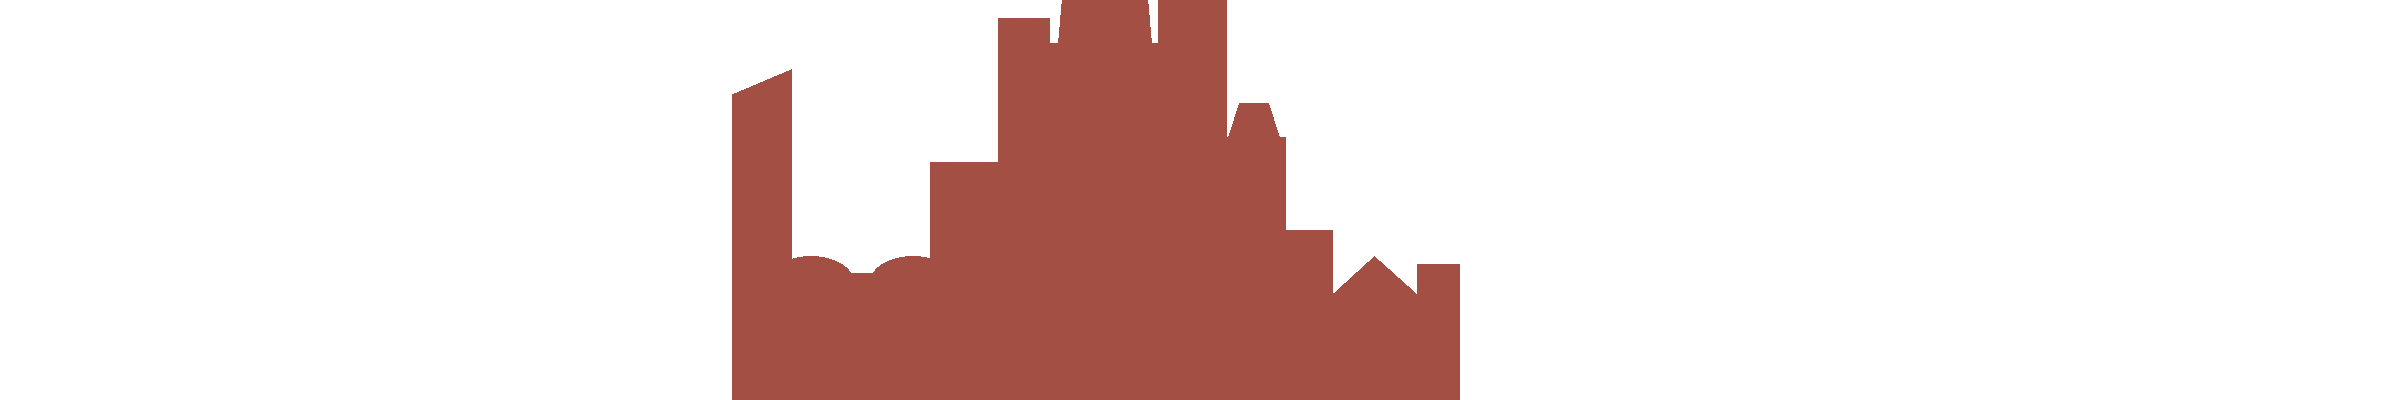
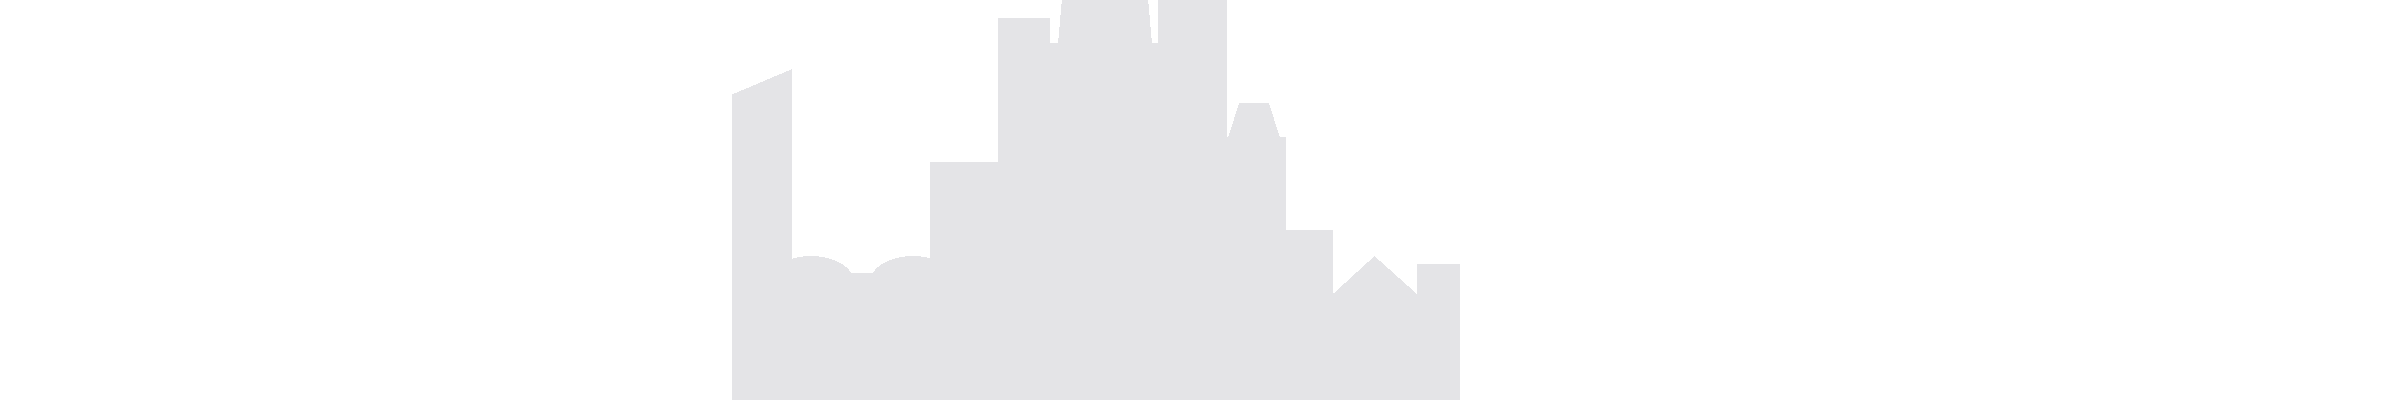
Move Nashville skyline to chat area as a subtle watermark

Changed region(s): [[0.2812, 0.0, 0.625, 1.0]]

diff --git a/nashville-chatbot.html b/nashville-chatbot.html
@@ -331,7 +331,10 @@
     -webkit-overflow-scrolling: touch;
     overscroll-behavior: contain;
     padding: 24px 20px;
-    background: #f7f7f9;
+    background:
+      url('/skyline.png') no-repeat center bottom / 90% auto,
+      #f7f7f9;
+    background-attachment: local, local;
     display: flex;
     flex-direction: column;
     gap: 12px;

diff --git a/sw.js b/sw.js
@@ -1,7 +1,7 @@
 // Howdy Nash service worker. Caches static assets for offline use.
 // Bump CACHE_VERSION when deploying changes you want users to see immediately.
 
-const CACHE_VERSION = 'howdynash-v33';
+const CACHE_VERSION = 'howdynash-v34';
 const STATIC_CACHE = `${CACHE_VERSION}-static`;
 
 const STATIC_ASSETS = [
